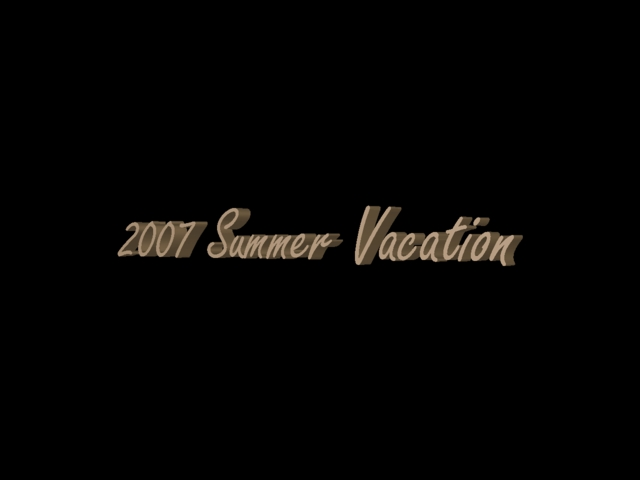
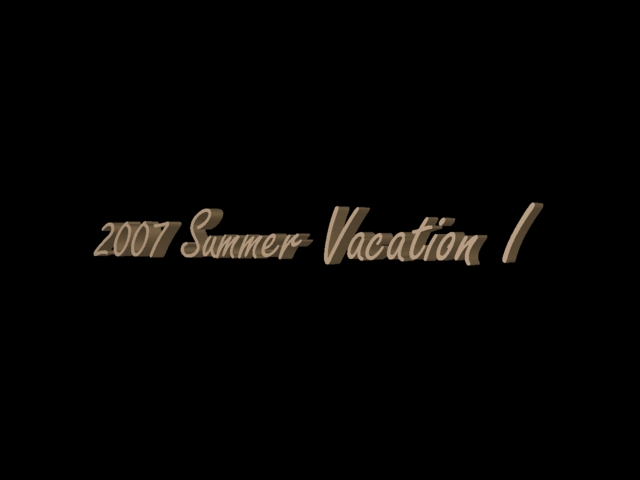
Add 2007 Summer Vacation II

Changed region(s): [[0.125, 0.4062, 0.8438, 0.5625]]

diff --git a/index.html b/index.html
@@ -187,11 +187,11 @@
 
             <tr class="menu-item">
               <td class="menu-item-img"><a href="2007Trip/" target="_blank">
-                <img src="2007Trip/cover.jpg" width="200" height="150" alt="2007 Summer Vacation"><br>
+                <img src="2007Trip/cover.jpg" width="200" height="150" alt="2007 Summer Vacation I"><br>
                 <span class="menu-item-img-desc">Monument Valley Navajo Tribal Park</span>
               </a></td>
               <td class="menu-item-txt">
-                <span class="menu-item-txt-trip">2007 Summer Vacation</span><br>
+                <span class="menu-item-txt-trip">2007 Summer Vacation I</span><br>
                 <span class="menu-item-txt-travel">
                   <img src="images/car.png" alt="Car" height="9">&nbsp;TX&rarr;UT&rarr;TX
                 </span><br>

diff --git a/js/description_trip.js b/js/description_trip.js
@@ -60,7 +60,6 @@ function getDescription(path) {
         case "2004Trip":
         case "2005Trip":
         case "2006Trip":
-        case "2007Trip":
         case "2008Trip":
         case "2009Trip":
         case "2011Trip":
@@ -109,6 +108,7 @@ function getDescription(path) {
 
         // Summer Vacation I cases
         case "1998Colorado":
+        case "2007Trip":
         case "2010Trip":
         case "2016Alaska":
           trip = dir[0].substring(1, 5) + " Summer Vacation I";
@@ -116,6 +116,7 @@ function getDescription(path) {
 
         // Summer Vacation II cases
         case "1998Trip":
+        case "2007Colorado":
         case "2010Wisconsin":
         case "2016Trip":
           trip = dir[0].substring(1, 5) + " Summer Vacation II";

diff --git a/2007Trip/index.html b/2007Trip/index.html
@@ -3,7 +3,7 @@
   <head>
     <meta charset="utf-8">
     <base href="..">
-    <title>2007 Summer Vacation</title>
+    <title>2007 Summer Vacation I</title>
     <link rel="stylesheet" href="css/slideshow.css">
     <script src="js/slideshow.js"></script>
     <script src="js/description.js"></script>
@@ -12,7 +12,7 @@
     <table id="outerTable">
       <tr>
         <td>
-          <span id="slideTitle">2007 Summer Vacation</span>
+          <span id="slideTitle">2007 Summer Vacation I</span>
         </td>
       </tr>
       <tr>
